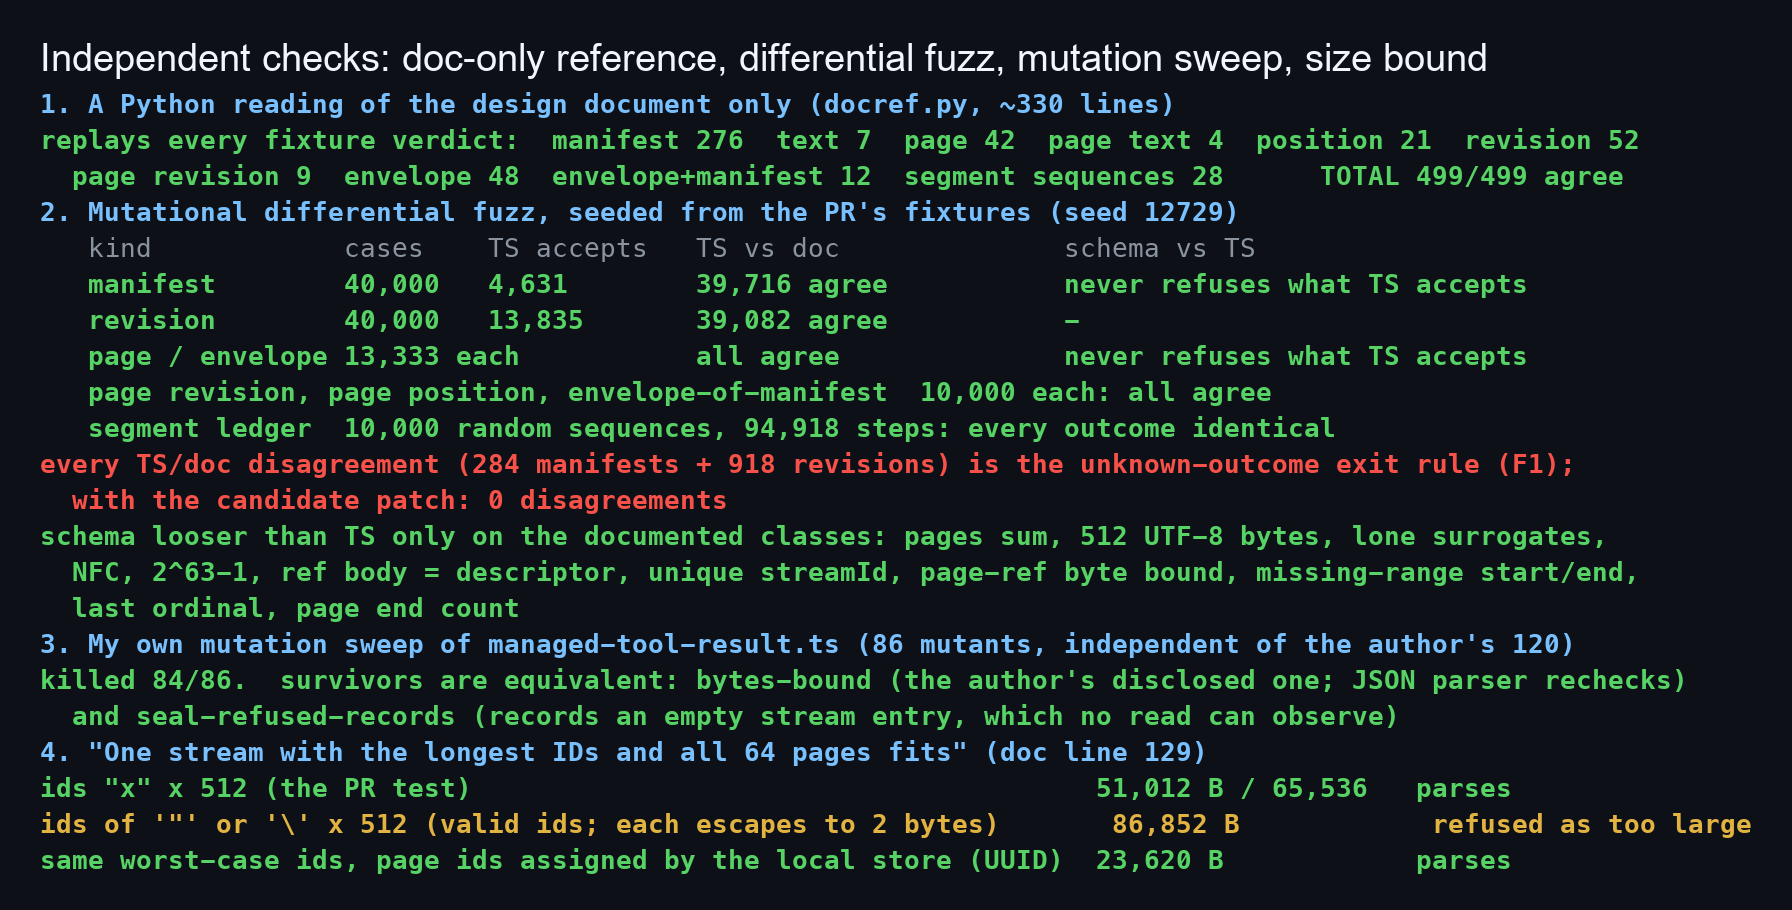
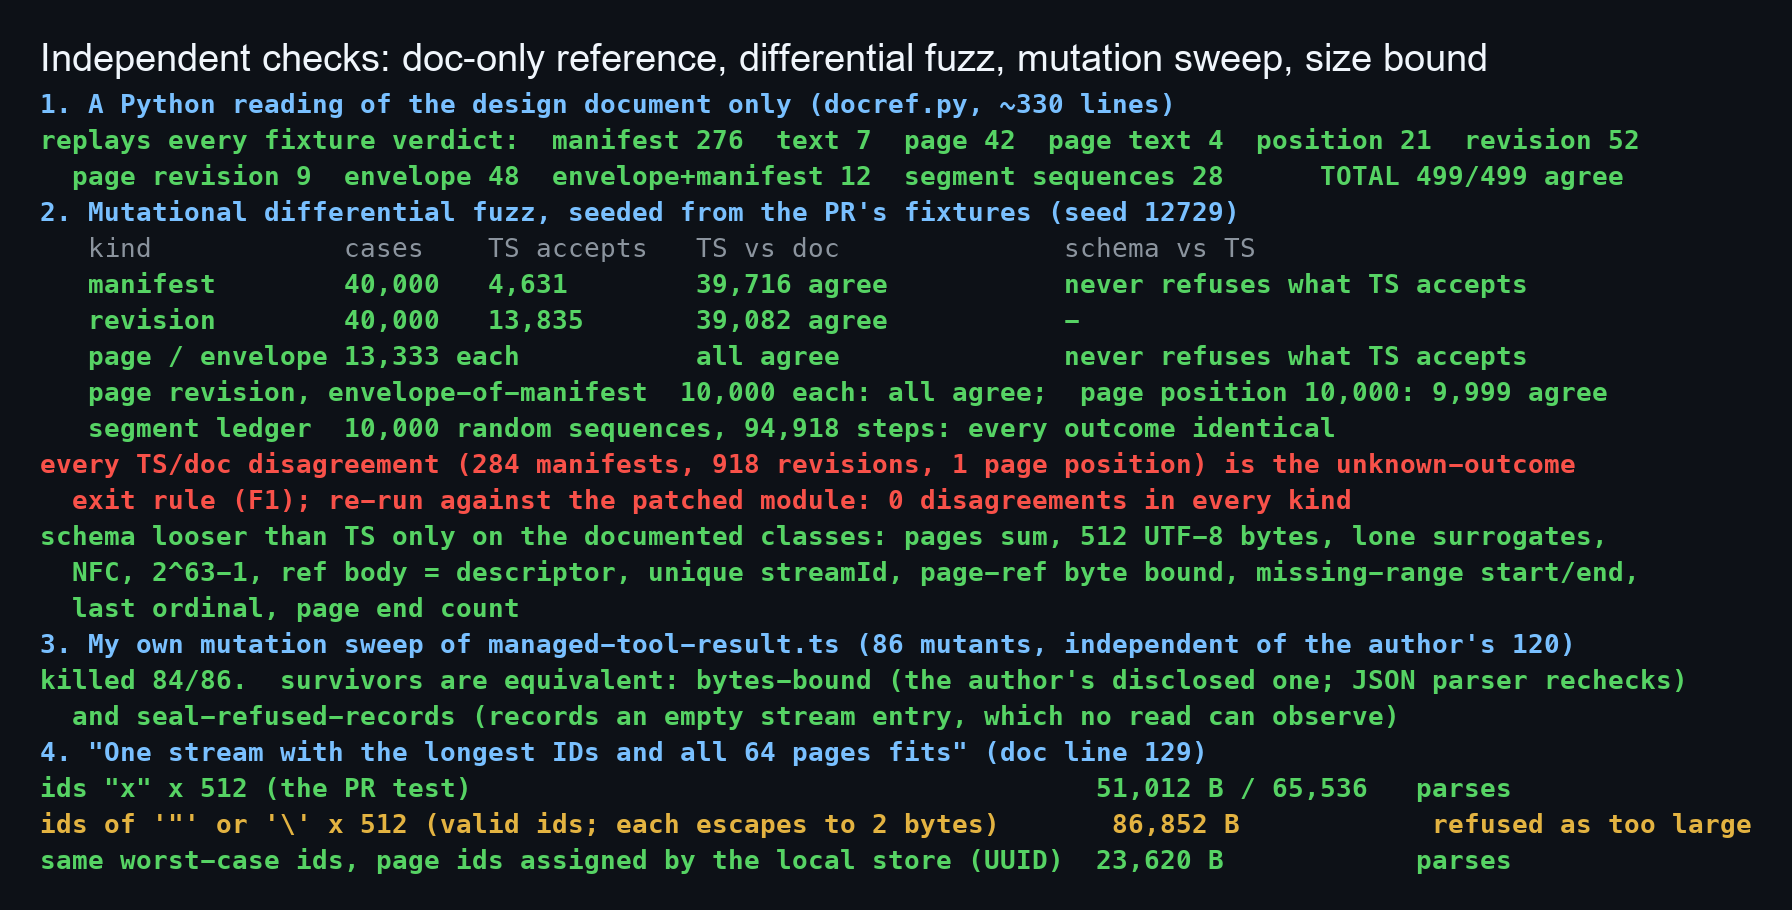
pr12729: apply the F1 rule in nested reference checks; refresh fuzz results

diff --git a/pr12729/harness/docref.py b/pr12729/harness/docref.py
@@ -210,8 +210,8 @@ def page(p):
     return p
 
 
-def page_at(m, si, pi, p):
-    if not (ok(manifest, m, unknown_rule=False) and ok(page, p)):
+def page_at(m, si, pi, p, unknown_rule=True):
+    if not (ok(manifest, m, unknown_rule=unknown_rule) and ok(page, p)):
         return False
     if not (0 <= si < len(m['contents'])):
         return False
@@ -299,8 +299,8 @@ def envelope(r):
     return r
 
 
-def envelope_of(r, m):
-    if not (ok(envelope, r) and ok(manifest, m, unknown_rule=False)):
+def envelope_of(r, m, unknown_rule=True):
+    if not (ok(envelope, r) and ok(manifest, m, unknown_rule=unknown_rule)):
         return False
     c = r['capture']
     return (c is not None and c['manifest'] is not None and m['captureStatus'] != 'pending'

diff --git a/pr12729/harness/fuzz.py b/pr12729/harness/fuzz.py
@@ -424,9 +424,9 @@ def py_verdict(k, v):
     if k == 'pageRevision':
         return {'doc': page_successor(v['a'], v['b'])}
     if k == 'pageAt':
-        return {'doc': page_at(v['m'], v['si'], v['pi'], v['p'])}
+        return {'doc': page_at(v['m'], v['si'], v['pi'], v['p']), 'docNoUnknownRule': page_at(v['m'], v['si'], v['pi'], v['p'], unknown_rule=False)}
     if k == 'envelopeOf':
-        return {'doc': envelope_of(v['r'], v['m'])}
+        return {'doc': envelope_of(v['r'], v['m']), 'docNoUnknownRule': envelope_of(v['r'], v['m'], unknown_rule=False)}
     if k == 'ledger':
         return {'doc': py_ledger(v)}
 
